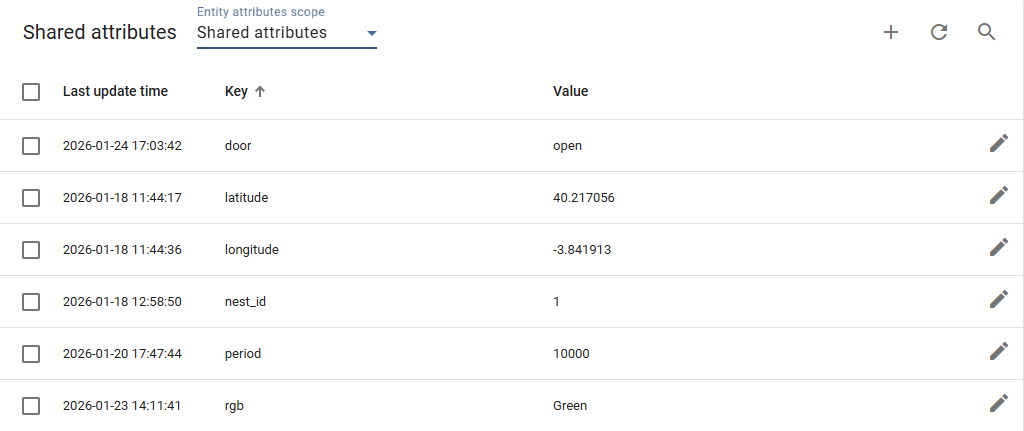
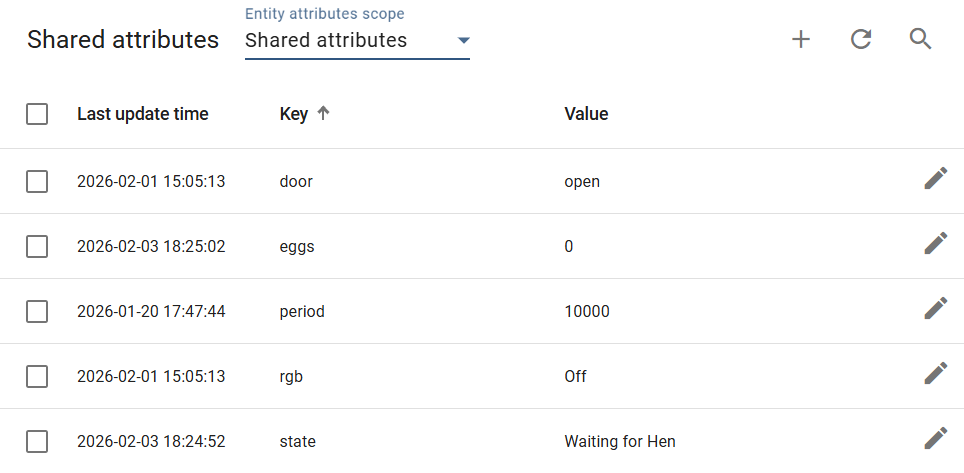
Update

diff --git a/Report/files/Implementation.tex b/Report/files/Implementation.tex
@@ -76,7 +76,7 @@ To evaluate the platform's performance with multiple devices, the system include
 The centralized management of the \gls{NEST} ecosystem is performed through the ThingsBoard \gls{IoT} platform. This service acts as the core for data ingestion, device management, data visualization, and remote commanding.
 
 \vspace{+10pt}
-\textbf{Device Management}\todo{change}
+\textbf{Device Management}
 
 To ensure a standardized configuration across the network, a specific \textbf{Device Profile} named \texttt{\gls{NEST} Device} has been created. This profile defines the common behavior, transport configurations, and alarm rules for all nodes in the coop. Currently, four operational devices have been provisioned under this profile:
 \begin{itemize}
@@ -84,13 +84,13 @@ To ensure a standardized configuration across the network, a specific \textbf{De
     \item \textbf{\gls{NEST} 2, \gls{NEST} 3, and \gls{NEST} 4:} Simulated nodes running the Python-based \gls{FSM} to test hybrid deployment and scalability.
 \end{itemize}
 
-The platform utilizes \textbf{Shared Attributes} to maintain the digital twin of each device and enable remote commanding. These attributes are stored on the server and synchronized with the devices via \gls{MQTT}. As shown in \autoref{fig:shared_attributes}, the following key attributes are managed:
+The platform utilizes \textbf{Shared Attributes} to enable remote commanding. These attributes are stored on the server and synchronized with the devices via \gls{MQTT}. As shown in \autoref{fig:shared_attributes}, the following key attributes are managed:
 \begin{itemize}
     \item \texttt{door}: Controls the physical state of the nesting box (\textit{open} or \textit{closed}).
     \item \texttt{rgb}: Sets the color of the \gls{RGB} \gls{LED} (\textit{Red, Green, Blue}).
     \item \texttt{period}: Defines the telemetry transmission interval in milliseconds.
-    \item \texttt{location}: Static geographic coordinates (\texttt{latitude} and \texttt{longitude}) for asset tracking.
-    \item \texttt{nest\_id}: A unique identifier for the specific physical location within the farm.
+    \item \texttt{state}: Current state of the \gls{FSM}.
+    \item \texttt{eggs}: Estimated amount of eggs.
 \end{itemize}
 
 \begin{figure}[H]
@@ -98,6 +98,41 @@ The platform utilizes \textbf{Shared Attributes} to maintain the digital twin of
     \includegraphics[width=0.9\textwidth]{images/shared_attributes.png} 
     \caption{ThingsBoard Shared Attributes Configuration}
     \label{fig:shared_attributes}
+\end{figure}
+
+The platform utilizes \textbf{Server Attributes} to maintain the digital twin of each device. These attributes are modified on the server with the Rule Engine. As shown in \autoref{fig:server_attributes}, the following key attributes are managed:
+\begin{itemize}
+    \item \texttt{nest\_id}: A unique identifier for the specific physical location within the farm.
+    \item \texttt{active}: Indicates whether the device is currently operational.
+    \item \texttt{inactivityAlarmTime}: Time threshold for inactivity alarm generation.
+    \item \texttt{lastActivityTime}: Timestamp of the last received telemetry data.
+    \item \texttt{lastConnectTime}: Timestamp of the last successful connection to the server.
+    \item \texttt{lastDisconnectTime}: Timestamp of the last disconnection from the server.
+\end{itemize}
+
+\begin{figure}[H]
+    \centering
+    \includegraphics[width=0.9\textwidth]{images/server_attributes.png} 
+    \caption{ThingsBoard Server Attributes Configuration}
+    \label{fig:server_attributes}
+\end{figure}
+
+The client can modify the \textbf{Client Attributes} to change configuration data on the device. These attributes can be read on the server side. As shown in \autoref{fig:client_attributes}, the following key attributes are managed:
+
+\begin{itemize}
+    \item \texttt{latitude / longitude}: Geographic latitude and longitude coordinates of the device.
+    \item \texttt{maxTemp / minTemp}: Maximum and minimum temperature thresholds for alarm generation.
+    \item \texttt{maxHum / minHum}: Maximum and minimum humidity thresholds for alarm generation.
+    \item \texttt{avgWeight / minWeight}: Average and minimum weight thresholds to estimate egg presence.
+    \item \texttt{validUID}: Authorized \gls{UID} for door access.
+    \item \texttt{henUID}: \gls{UID} of the hen.
+\end{itemize}
+\todo{image}
+\begin{figure}[H]
+    \centering
+    %\includegraphics[width=0.9\textwidth]{images/client_attributes.png} 
+    \caption{ThingsBoard Client Attributes Configuration}
+    \label{fig:client_attributes}
 \end{figure}
 
 The system performs continuous data ingestion from both physical and simulated sources. The telemetry stream provides real-time visibility into the farm's conditions. Each device pushes a \gls{JSON} payload containing:
@@ -124,7 +159,7 @@ For this project, a specific \textbf{Rule Chains} has been developed named \text
 \begin{figure}[H]
     \centering
     \includegraphics[width=0.85\textwidth]{images/rule_chain.png}
-    \caption{Real-time telemetry data}
+    \caption{Rule Chain for \acrshort{NEST} Device}
     \label{fig:rule_chain}
 \end{figure}
 
@@ -137,7 +172,7 @@ The weight, if it is above a minimun threshold it checks how many eggs are expec
 
 
 \vspace{+10pt}
-\textbf{Dashboard}\todo{change photos}
+\textbf{Dashboard}
 
 The visualization layer is implemented through a multi-state interactive dashboard designed to provide both a global overview of the farm and detailed insights into individual nodes.
 
@@ -147,7 +182,7 @@ The primary dashboard state (see \autoref{fig:main_dashboard}) is designed for h
     \item \textbf{Entities Summary Table:} A real-time grid displaying the current \texttt{temperature}, \texttt{humidity}, \texttt{weight}, and \texttt{door status} for all devices in the network.
     \item \textbf{Global Alarms Feed:} A centralized list showing active alarms across the entire ecosystem.
 \end{itemize}
-
+\todo{change foto}
 \begin{figure}[H]
     \centering
     \includegraphics[width=0.95\textwidth]{images/main.png} 
@@ -156,7 +191,7 @@ The primary dashboard state (see \autoref{fig:main_dashboard}) is designed for h
 \end{figure}
 
 To enable drill-down capabilities, the dashboard implements a \textbf{state-based navigation} logic. By clicking on a specific device name in the table or its marker on the map, the dashboard transitions to a "Details" state (see \autoref{fig:details_view}). 
-
+\todo{change foto}
 \begin{figure}[H]
     \centering
     \includegraphics[width=0.3\textwidth]{images/click.png} 

diff --git a/Report/files/Overview.tex b/Report/files/Overview.tex
@@ -101,6 +101,6 @@ Once the telemetry reaches the \textbf{ThingsBoard} platform, the workflow trans
 \begin{figure}[H]
     \centering
     \includegraphics[width=1\textwidth]{images/fsm_workflow.png}
-    \caption{FSM Workflow Sequence Diagram}
+    \caption{\acrshort{FSM} Workflow Sequence Diagram}
     \label{fig:fsm_workflow}
 \end{figure}
